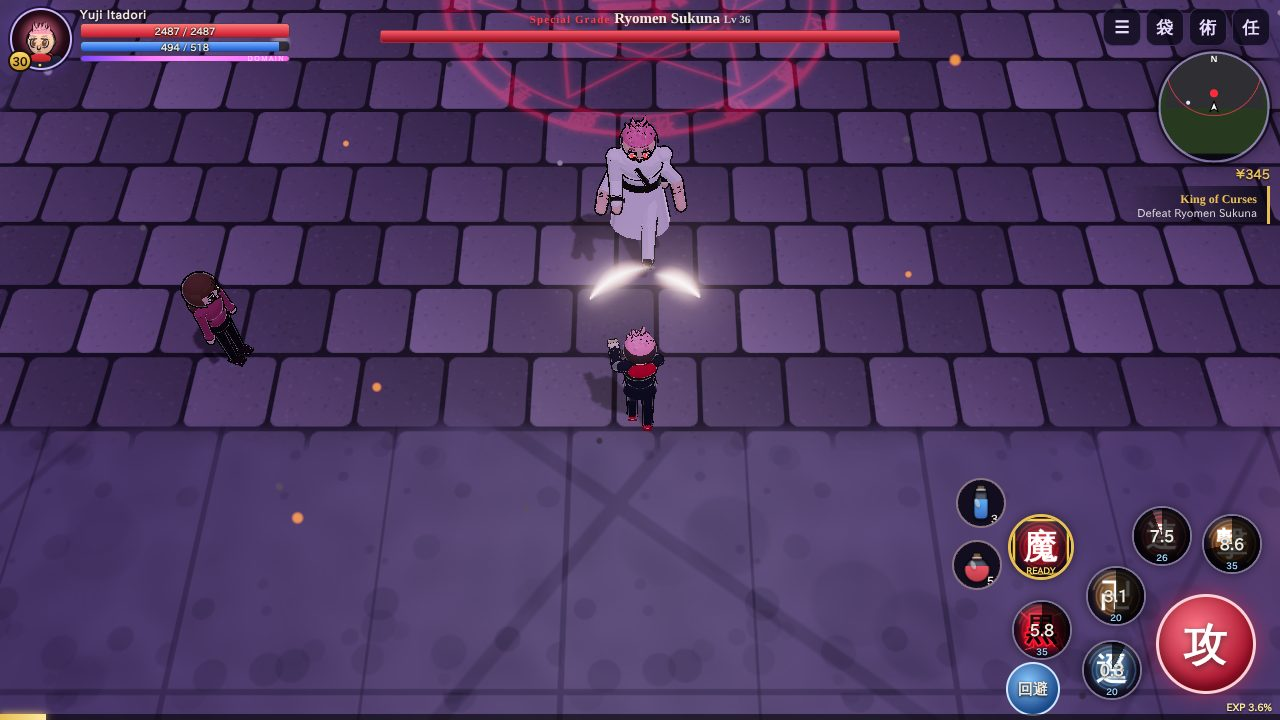
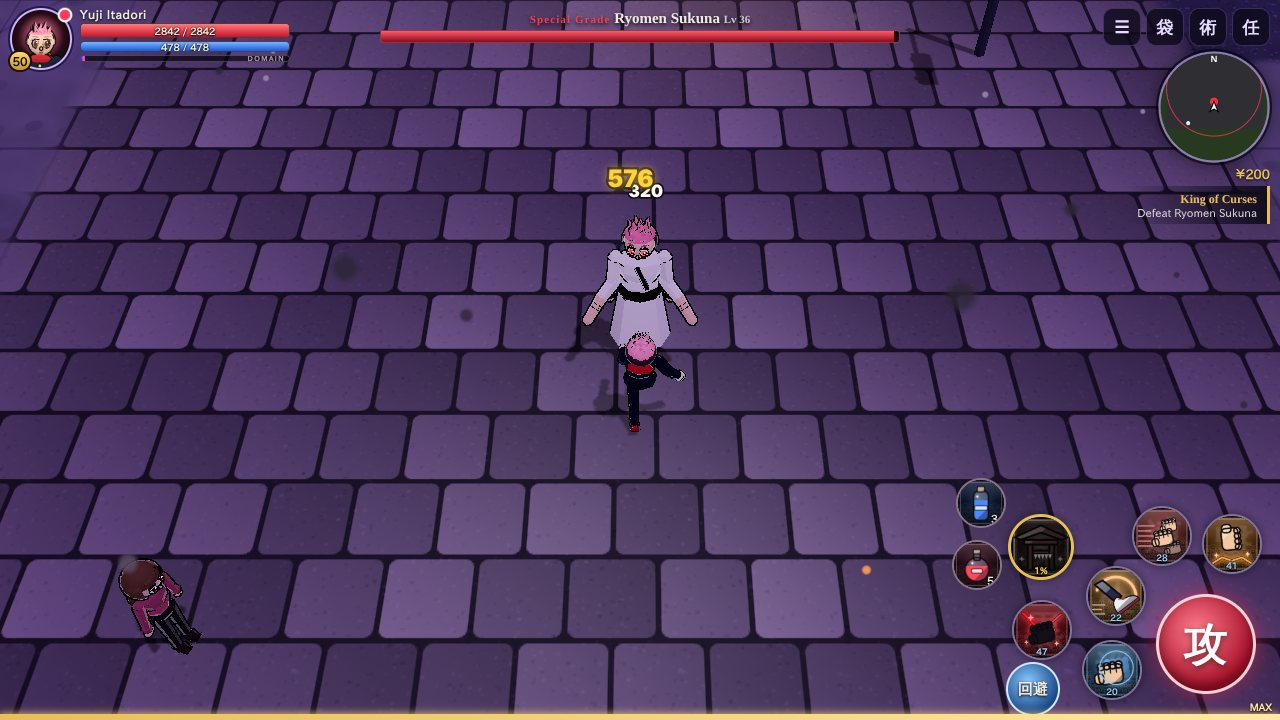
README: new screenshots and the v1.1 feature set
Retake every screenshot with the low-poly look and add shots of the
enterable buildings, Choso's fight and the reorganized bag. Document
skill types, 10 stat points per level, six gear slots, the Cheats tab,
generated interiors, the expanded story and synced sound.

Claude-Session: https://claude.ai/code/session_01RNDSBy5GbRiHbSC8KqQifq

diff --git a/README.md b/README.md
@@ -24,7 +24,8 @@
 Play as Yuji, Megumi or Nobara and fight through the story from the Sugisawa High
 rooftop to the Shibuya Incident. Combat is real-time with combos, skills, dodges and
 Black Flashes, wrapped in a classic Zenonia-style RPG loop: quests, loot, stat points,
-skill trees, gear upgrades and boss fights.
+skill trees, gear upgrades and boss fights. Schools, cinemas and stations can be
+entered, and their halls are laid out fresh every time you walk in.
 
 Every model, building, texture, icon, portrait, music track and sound effect is
 generated in code. The game ships no art or audio files, so the APK is under 2 MB
@@ -54,6 +55,10 @@ and runs without an internet connection.
     <td width="50%"><img src="docs/screenshots/jujutsu-high.jpg" alt="Jujutsu High"><br><sub><b>Tokyo Jujutsu High</b>: the hub, with shops, quests and fast travel</sub></td>
   </tr>
   <tr>
+    <td><img src="docs/screenshots/interior.jpg" alt="Sugisawa High corridors"><br><sub><b>Enterable buildings</b>: Sugisawa High's corridors, rebuilt on every visit</sub></td>
+    <td><img src="docs/screenshots/cinema.jpg" alt="Kawasaki cinema"><br><sub><b>The Kawasaki cinema</b>, where Mahito's victims were found</sub></td>
+  </tr>
+  <tr>
     <td><img src="docs/screenshots/combat-megumi.jpg" alt="Megumi in combat"><br><sub><b>Megumi</b> fights alongside his shikigami</sub></td>
     <td><img src="docs/screenshots/combat-yuji.jpg" alt="Yuji in combat"><br><sub><b>Yuji</b> brawls through the Eishu detention yard</sub></td>
   </tr>
@@ -67,7 +72,11 @@ and runs without an internet connection.
   </tr>
   <tr>
     <td><img src="docs/screenshots/domain-clash.jpg" alt="Domain clash"><br><sub><b>Domain clash</b>: cast your ultimate inside an enemy domain to shatter it</sub></td>
-    <td><img src="docs/screenshots/skills.jpg" alt="Skill tree"><br><sub><b>Skill trees</b> with active skills, passives and an ultimate</sub></td>
+    <td><img src="docs/screenshots/choso.jpg" alt="Choso boss fight"><br><sub><b>Choso</b> guards the Prison Realm on Shibuya Station's B5F platform</sub></td>
+  </tr>
+  <tr>
+    <td><img src="docs/screenshots/skills.jpg" alt="Skills menu"><br><sub><b>Skills</b>: actives, buffs, passives, reactions and an ultimate, with a quick bar</sub></td>
+    <td><img src="docs/screenshots/bag.jpg" alt="Bag"><br><sub><b>Bag</b>: six equipment slots, items grouped by category</sub></td>
   </tr>
 </table>
 
@@ -89,14 +98,22 @@ you can also set it under **Settings**.
 
 ### Three sorcerers
 
-| | Style | Skills | Ultimate |
+| | Style | Signature skills | Ultimate |
 |---|---|---|---|
-| **Yuji Itadori** | Close-range brawler with the best Black Flash odds | Divergent Fist · Manji Kick · Cursed Rush · Meteor Slam · Black Flash · Slaughter Demon | King of Curses: Malevolent Shrine |
-| **Megumi Fushiguro** | Shikigami summoner and swordsman | Divine Dogs · Nue · Toad · Shadow Step · Max Elephant · Rabbit Escape | Domain Expansion: Chimera Shadow Garden |
-| **Nobara Kugisaki** | Mid-range nails, hammer and Resonance | Hairpin · Nail Volley · Resonance · Hammer Smash · Straw Doll Curse · Cursed Nail Rain | Resonance: Thousand Nails |
+| **Yuji Itadori** | Close-range brawler with the best Black Flash odds | Divergent Fist · Manji Kick · Black Flash · Piercing Blood · Supernova · Dismantle | King of Curses: Malevolent Shrine |
+| **Megumi Fushiguro** | Shikigami summoner and swordsman | Divine Dogs · Nue · Max Elephant · Great Serpent · Piercing Ox · Divine Dog: Totality | Domain Expansion: Chimera Shadow Garden |
+| **Nobara Kugisaki** | Mid-range nails, hammer and Resonance | Hairpin · Resonance · Straw Doll Curse · Nail Lance · Chain Resonance · Blood Resonance | Resonance: Thousand Nails |
 
-Each class also has four passives. Every level gives 5 stat points (STR, DEX, VIT, CE)
-and 1 skill point, up to level 50.
+Each class has about twenty techniques of five kinds:
+
+- **Active:** attacks, summons and movement skills on the quick bar.
+- **Buff:** timed boosts such as Cursed Energy Surge, Round Deer or Steady Aim.
+- **Passive:** always-on bonuses.
+- **Reaction:** triggers by itself when you are hit, land a kill or drop to low HP
+  (Counter Stance, Loyal Hounds, Final Nail and more).
+- **Ultimate:** spends a full domain gauge.
+
+Every level gives 10 stat points (STR, DEX, VIT, CE) and 1 skill point, up to level 50.
 
 ### The RPG loop
 
@@ -105,47 +122,72 @@ and 1 skill point, up to level 50.
 - **Black Flash:** a ×2.5 critical with hit-stop. It fills your domain gauge and grants
   a short "zone" buff.
 - **Loot:** four rarities (Common, Graded, Special Grade, Cursed Tool) with random
-  bonus stats. Gear covers class weapons, uniforms, charms and shoes.
+  bonus stats. Gear fills six slots: weapon, headgear, uniform, charm, accessory and
+  shoes. The bag and the shops group items by category.
 - **Infusion:** Yaga's workshop upgrades gear from +1 to +10. Higher levels can fail
   and drop a level.
 - **Towns and travel:** Shoko sells potions, Maki runs the armory and Mei Mei trades
   materials. Ijichi drives you between unlocked areas.
-- **Saves:** three slots with autosave.
+- **Saves:** three slots with autosave. Older saves are upgraded automatically.
+- **Cheats tab:** god mode, infinite cursed energy, one-hit kills, no cooldowns, extra
+  speed, double EXP, all areas unlocked, plus one-tap level-ups, gear, items and quest
+  completion. Toggles are saved per slot.
+
+### Enterable buildings
+
+Sugisawa High, the Jujutsu High dorm, Eishu's admin block, the Kawasaki cinema and
+Shibuya Station each have a lit doorway. Inside, the floor plan is generated on every
+visit: a random network of halls and rooms with a few loops, themed furniture
+(classrooms, cells, screening rooms, platforms, tatami bedrooms) and cutaway walls on
+the camera side. The story beat for each building sits in the room farthest from the
+door. Some rooms hide sealed caches with yen and gear, and the minimap starts dark and
+fills in as you explore.
 
 ### The story
 
-Five chapters, 14 main quests and 11 side quests, across seven maps:
+Five chapters plus an epilogue, with 16 main quests and 14 side quests across seven
+areas and five interiors. Key moments follow the anime and manga:
 
-1. **Sugisawa Third High.** A finger, a rooftop curse and a first meeting with Gojo.
-2. **Eishu Juvenile Detention Center.** A rescue in the rain, and the Finger Bearer.
-3. **Kawasaki.** Nanami, Junpei and Mahito, from the riverbank down into the sewers.
+1. **Sugisawa Third High.** Yuji's grandfather's last words, the Occult Research Club
+   seniors who broke the seal, and the finger Yuji swallows.
+2. **Eishu Juvenile Detention Center.** A rescue in the rain, the Finger Bearer,
+   Sukuna's binding vow, and Tadashi Okazaki's name tag for his mother.
+3. **Kawasaki.** Nanami, Screen 3 of the cinema, Junpei and Mahito, and movie training
+   with Yaga's cursed dolls while Yuji is "dead".
 4. **Kyoto Goodwill Event.** Todo asks what your type is, then Hanami invades.
-5. **Shibuya Incident.** Veil anchors, Dagon, Jogo and the King of Curses.
-   Afterwards there is an optional fight against Mahoraga, who adapts to the damage
-   you deal.
+5. **Shibuya Incident.** Veil anchors, the Prison Realm on B5F guarded by Choso, then
+   Dagon, Jogo and the King of Curses.
+6. **Epilogue.** Mahoraga, who adapts to your damage, and a Soul Resonance rematch with
+   Mahito alongside Todo. That fight ends with the man wearing Geto's face.
 
 ### Bosses and domains
 
-Nine bosses, each with its own move set, telegraphs, HP phases and summons. Mahito,
+Ten bosses, each with its own move set, telegraphs, HP phases and summons. Mahito,
 Dagon, Jogo and Sukuna expand their **domains**: everyone inside takes sure-hit damage.
 Survive it, or cast your ultimate inside it to start a **domain clash** and break it.
 A boss expanding its domain also charges your gauge.
 
 ### Look and sound
 
-- Cel-shaded characters with ink outlines, rim light and glowing cursed energy, plus bloom.
+- Low-poly, faceted models: every surface is lit as flat planes on a 4-band cel ramp,
+  while faces stay smooth. Ink outlines, rim light, glowing cursed energy and bloom.
+- Characters carry their trademarks: Gojo's blindfold, Nanami's goggles and
+  leopard-print tie, Maki's glasses and polearm, Inumaki's zipped collar, Todo's scar,
+  Choso's blood stripe.
 - Day and night lighting, dynamic lights and weather: rain, sakura, falling leaves, ash
   and fireflies.
 - Trees, roofs and walls fade out when they would hide your character.
-- Synthesized sound for every action. Footsteps change with the surface, and every
-  hit, skill, shikigami and domain has its own sound.
+- Synthesized sound for every action, timed to the animation: footsteps land on each
+  foot plant and change with the surface, swings sound on the wind-up and hits on the
+  contact frame, for players, curses, shikigami and bosses alike.
 - A music theme for each area and for bosses, layered over ambience such as rain,
   crickets, city noise and wind.
 
 ## Controls
 
 **Touch:** a floating joystick on the left, and action buttons on the right for
-attack, five skills, ultimate, dodge, two potions and talk. Menus are at the top right.
+attack, five skills, ultimate, dodge, two potions and talk. Menus are at the top right;
+the Cheats tab is in the main menu. Walk into a lit doorway to enter or leave a building.
 
 **Keyboard** (in a browser, or on a phone with a keyboard):
 
@@ -207,8 +249,13 @@ offline. There are no third-party Android dependencies.
   rigid-skinned mesh with a shared skeleton, animated by a procedural animator with
   attack, cast and reaction poses for each move.
 - Materials use a 4-band toon ramp and per-vertex glow, with inverted-hull outlines
-  and a shared rim light. A dither shader hides scenery standing between the camera
+  and a shared rim light. Parts are built with few segments and lit with per-face
+  normals for the low-poly look; a copy of the smooth normal drives the outline hull so
+  ink lines stay unbroken. A dither shader hides scenery standing between the camera
   and your character.
+- Interiors come from `src/world/interiors.ts`: a seeded spanning tree over a grid of
+  rooms, extra links for loops, breadth-first distance to pick the story room, then
+  walls, doors, furniture, lights and spawners per cell.
 - Buildings and props are merged or instanced meshes. Terrain blends four canvas
   textures with a painted splat map. Skill icons, item icons and portraits are drawn
   at runtime.
